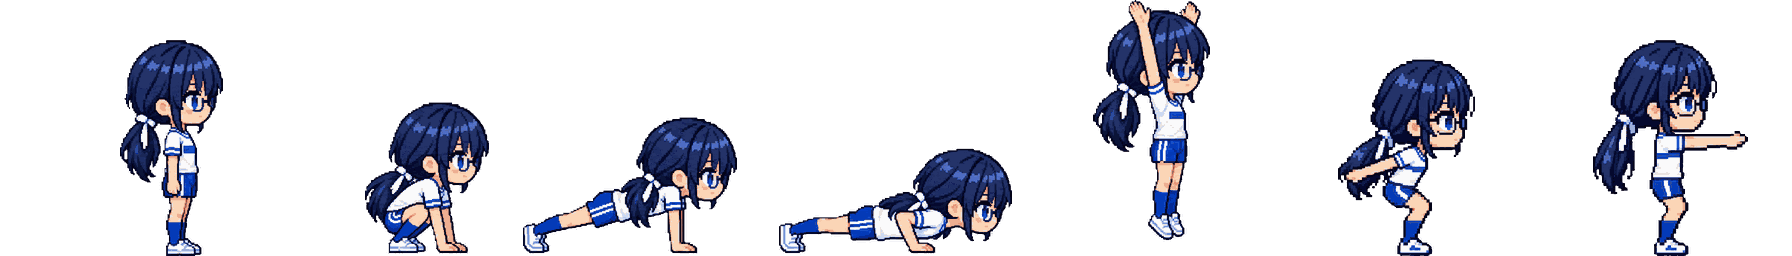
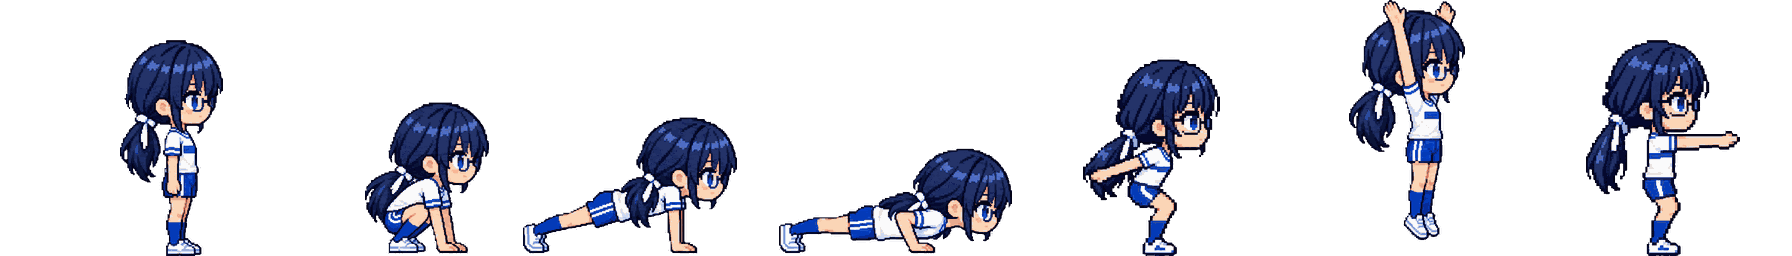
Keep the burpee strip in the order it happens
The two new poses sit either side of the jump instead of after it, so the
strip reads the way it plays. The jumping figure is lifted out as a
connected piece: the push-up reaches under it and no column divides them.

Changed region(s): [[0.5938, 0.0, 0.6875, 1.0], [0.7188, 0.0, 0.8438, 1.0], [0.875, 0.1562, 1.0, 1.0]]

diff --git a/lib/moves.ts b/lib/moves.ts
@@ -98,10 +98,10 @@ const ROUND = new Set(['running', 'walking', 'cycling', 'jump_rope', 'stair_clim
  * went from lying on the floor to mid-air: the way back up was never shown.
  * It is the same two drawings in reverse, so they are shown again rather than
  * drawn again. The gathering before the jump (5) and the landing (6) were drawn
- * later and sit at the end of the strip, after the jump (4).
+ * later and joined in where they happen, either side of the jump (5).
  */
 const ORDER: Record<string, number[]> = {
-  burpee: [0, 1, 2, 3, 2, 1, 5, 4, 6],
+  burpee: [0, 1, 2, 3, 2, 1, 4, 5, 6],
 };
 
 /**

diff --git a/lib/moves.test.ts b/lib/moves.test.ts
@@ -31,7 +31,7 @@ test('a movement drawn in more than three frames plays them all', () => {
   const burpee = moveOf('버피')!;
   assert.equal(burpee.frames, 7);
   const played = Array.from({ length: 10 }, (_, t) => frameAt(burpee, t));
-  assert.deepEqual(played, [0, 1, 2, 3, 2, 1, 5, 4, 6, 0]);
+  assert.deepEqual(played, [0, 1, 2, 3, 2, 1, 4, 5, 6, 0]);
   assert.deepEqual([...new Set(played)].sort(), [0, 1, 2, 3, 4, 5, 6]);
   // One that goes there and back would not rest twice on either end.
   const five = { id: 'made-up', frames: 5 as const };

diff --git a/scripts/move-join.py b/scripts/move-join.py
@@ -1,20 +1,25 @@
 # Adds figures from a second drawing to the end of a movement drawing, so the two can be
 # cut as one (scripts/move-assets.py).
 #
-#   python -X utf8 scripts/move-join.py <drawing.png> <extra.png> <out.png>
+#   python -X utf8 scripts/move-join.py <drawing.png> <extra.png> <out.png> [before last=0]
 #
 # A drawing asked to hold seven figures draws them small. So the extra poses are ordered
 # as a drawing of their own whose first figure is the same standing pose the first
 # drawing starts with. That figure is the ruler: the extra drawing is resized until its
 # standing girl is as tall as the first drawing's, its floor is set on the same row, and
 # every figure after the ruler is appended to the right. The ruler itself is dropped.
+#
+# `before last` is how many of the added figures go in front of the first drawing's last
+# figure instead of after it, so the strip stays in the order the movement happens: a
+# burpee's gathering belongs before its jump, its landing after.
 import sys
 
 import numpy as np
 from PIL import Image
 
-if len(sys.argv) != 4:
-    sys.exit('usage: move-join.py <drawing.png> <extra.png> <out.png>')
+if len(sys.argv) not in (4, 5):
+    sys.exit('usage: move-join.py <drawing.png> <extra.png> <out.png> [before last=0]')
+before = int(sys.argv[4]) if len(sys.argv) == 5 else 0
 
 
 def figures(image):
@@ -31,6 +36,27 @@ def figures(image):
     return found
 
 
+def pieces(small):
+    """Each connected piece numbered from 1, touching diagonally included."""
+    labels = np.zeros(small.shape, dtype=int)
+    count = 0
+    for y0, x0 in zip(*np.nonzero(small)):
+        if labels[y0, x0]:
+            continue
+        count += 1
+        labels[y0, x0] = count
+        stack = [(y0, x0)]
+        while stack:
+            y, x = stack.pop()
+            for dy in (-1, 0, 1):
+                for dx in (-1, 0, 1):
+                    v, u = y + dy, x + dx
+                    if 0 <= v < small.shape[0] and 0 <= u < small.shape[1] and small[v, u] and not labels[v, u]:
+                        labels[v, u] = count
+                        stack.append((v, u))
+    return labels, count
+
+
 base = Image.open(sys.argv[1]).convert('RGBA')
 extra = Image.open(sys.argv[2]).convert('RGBA')
 _, _, top, floor = figures(base)[0]
@@ -45,19 +71,43 @@ if len(found) < 2:
 ruler, added = found[0], found[1:]
 
 gap = base.width // 40
-width = base.width + sum(b - a + gap for a, b, _, _ in added)
+width = base.width + sum(b - a + gap for a, b, _, _ in added) + 2 * gap
 # Her floor in the extra drawing goes on the row of her floor in the first.
 down = floor - ruler[3]
 out = Image.new('RGBA', (width, base.height))
-out.alpha_composite(base, (0, 0))
-x = base.width
-for a, b, _, _ in added:
-    piece = extra.crop((a, 0, b, extra.height))
-    lifted = Image.new('RGBA', (b - a, base.height))
-    lifted.alpha_composite(piece, (0, down)) if down >= 0 else lifted.alpha_composite(
-        piece.crop((0, -down, b - a, extra.height)), (0, 0)
-    )
-    out.alpha_composite(lifted, (x, 0))
+# The last figure is lifted out as a connected piece, not cut off down a column: lying
+# figures reach under their neighbours (a push-up's head ends beneath the jump), so no
+# column divides them.
+rest, last = base, None
+if before:
+    solid = np.array(base)[..., 3] >= 128
+    # At full size: a quarter-size mask left her outline behind as specks.
+    labels, count = pieces(solid)
+    sizes = np.bincount(labels.ravel(), minlength=count + 1)[1:]
+    big = [k + 1 for k in range(count) if sizes[k] > sizes.max() / 8]
+    where = {n: np.nonzero(labels == n)[1].mean() for n in range(1, count + 1)}
+    k = max(big, key=lambda n: where[n])
+    # Anything small goes with whichever big piece is nearest, as in move-assets.py.
+    full = np.zeros(solid.shape, dtype=bool)
+    for n in range(1, count + 1):
+        owner = n if n in big else min(big, key=lambda m: abs(where[m] - where[n]))
+        if owner == k:
+            full |= labels == n
+    pixels = np.array(base)
+    kept, lifted = pixels.copy(), pixels.copy()
+    kept[full] = 0
+    lifted[~full] = 0
+    xs = np.flatnonzero(full.any(axis=0))
+    rest = Image.fromarray(kept, 'RGBA')
+    last = Image.fromarray(lifted, 'RGBA').crop((int(xs.min()), 0, int(xs.max()) + 1, base.height))
+out.alpha_composite(rest, (0, 0))
+x = figures(rest)[-1][1]
+for i, (a, b, _, _) in enumerate(added):
+    if last is not None and i == before:
+        out.alpha_composite(last, (x + gap, 0))
+        x += last.width + gap
+    piece = extra.crop((a, max(-down, 0), b, extra.height))
+    out.alpha_composite(piece, (x + gap, max(down, 0)))
     x += b - a + gap
 out.save(sys.argv[3])
 print(f'{sys.argv[3]}: {len(added)} added at {scale:.3f}x, floor moved {down} px')

diff --git a/NOTES.md b/NOTES.md
@@ -541,10 +541,11 @@
   푸시업의 아래에서 곧장 공중으로 뛰었다. 전하가 「5개로도 모자라다」, 이어 「2동작 더」라고 했다.
   - 올라오는 길은 내려간 길의 두 장을 거꾸로 보인다(그림을 더 받지 않는다).
   - 새로 받은 것은 둘이다: 뛰기 직전(반쯤 앉아 팔을 뒤로)과 내려앉는 순간(무릎을 살짝 굽히고 팔을 앞으로). 어느 둘인지는
-    Claude가 정했다. 띠에서는 뛰기 뒤에 붙어 있어(5 · 6) 차례는 0 1 2 3 2 1 5 4 6이다.
+    Claude가 정했다. 띠는 일어나는 차례대로다(뛰기 직전 4 · 뛰기 5 · 내려앉기 6). 도는 차례는 0 1 2 3 2 1 4 5 6이다.
+    처음엔 새 둘을 띠의 끝에 붙였더니 전하가 띠 그림을 보고 「푸시업 다음이 뛰기라 이상하다」고 했다.
   - **일곱을 한 장에 받지 않았다.** 2,172픽셀에 일곱이면 아이가 작아진다. 「서기 · 뛰기 직전 · 내려앉기」 석 칸짜리를
     따로 받고(`moves/seven/burpee_extra.txt`), 서 있는 아이를 자 삼아 크기와 바닥 줄을 맞춰 다섯 칸 그림의 오른쪽에
-    붙인 뒤 한 장으로 자른다(`scripts/move-join.py` → `move-assets.py … 7`). 새 그림은 0.77 → 0.83배로 줄었다.
+    붙인 뒤 한 장으로 자른다(`scripts/move-join.py … 1` → `move-assets.py … 7`, 끝의 1은 「하나는 마지막 칸 앞에」). 새 그림은 0.77 → 0.83배로 줄었다.
   - 다섯 칸 원본은 `moves/five/burpee5-<아이>.png`이고, `moves/<아이>/burpee-<아이>/`에 있는 것은 이어 붙인 일곱 칸이다
     (`recut.sh`가 그것을 자른다). 세 장을 받았고 다시 받은 것은 없다.
 - **다섯을 더 받아 65종목이다 (2026-10-05 밤).** 친업, 프론트 스쿼트, 덤벨 고블릿 스쿼트, 아놀드 프레스, 케이블 컬.
